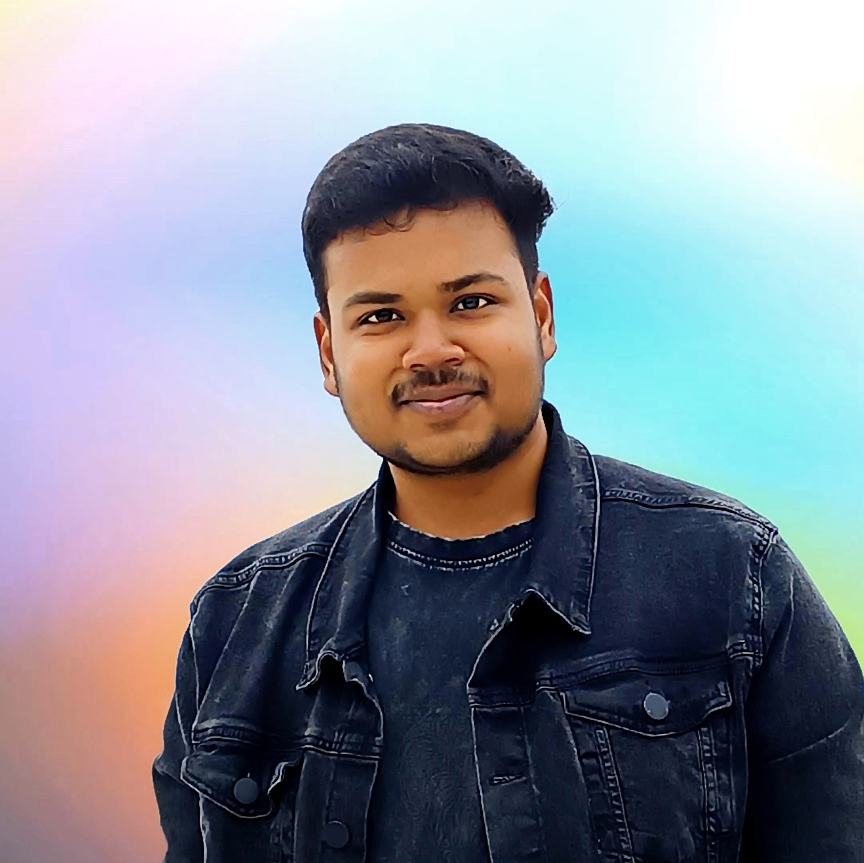
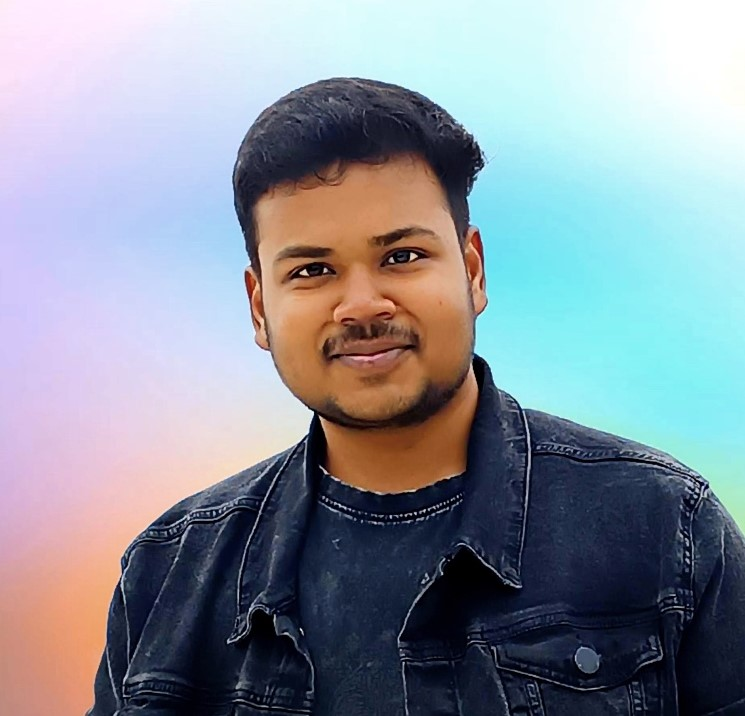
dp update

diff --git a/src/app/page.tsx b/src/app/page.tsx
@@ -1,6 +1,6 @@
 import Image from "next/image"
 import Link from "next/link"
-
+import dp from '../../public/images/dp.jpg'
 import { Button } from "@/components/ui/button"
 import Blog from "./blog/BlogClient";
 import { FaSquareXTwitter } from "react-icons/fa6";
@@ -14,7 +14,7 @@ export default function Home() {
     <div>
       <div className="mb-12">
         <Image
-          src="https://github.com/huamanraj.png"
+          src={dp}
           alt="Profile"
           width={120}
           height={120}
